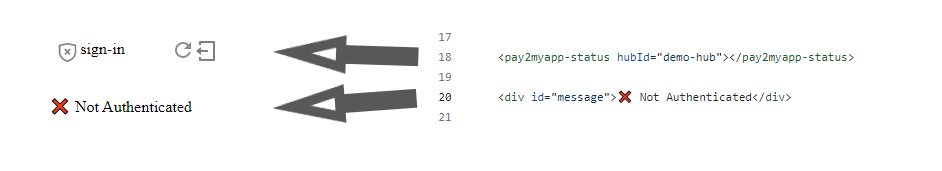
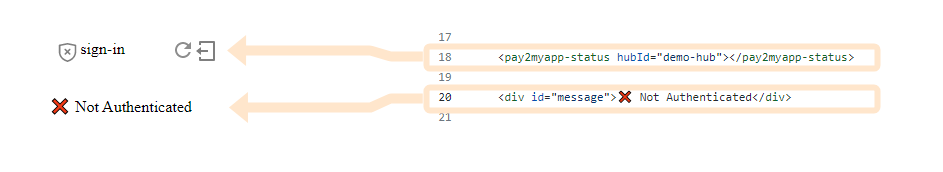
Update images for howto

Changed region(s): [[0.1847, 0.1754, 0.9544, 0.731], [0.0308, 0.5848, 0.2155, 0.6725], [0.0616, 0.2632, 0.1539, 0.3509]]

diff --git a/howto/README.md b/howto/README.md
@@ -87,7 +87,7 @@ For example, on this page, when a user clicks on the "sign-in" text, they will b
 
 A sample "sign-in" flow using a generated secret token is shown below:
 
-![uxworkflow](https://overhide.github.io/pay2my.app/howto/assets/uxworkflow.PNG)
+![uxworkflow](https://overhide.github.io/pay2my.app/howto/assets/genworkflow.png)
 
 Here a user clicks on the "sign-in" rendered by the <a target="_blank" href="https://github.com/overhide/pay2my.app#pay2myapp-status-">pay2myapp-status</a> component [1], which opens a modal presenting login options.  Since we're a new user, we click on "generate new" to generate a new login token [2], and "continue" [3] to actually login.  We will be prompted with additional anti-bot validation before our "account" (new token) is accepted.
 
